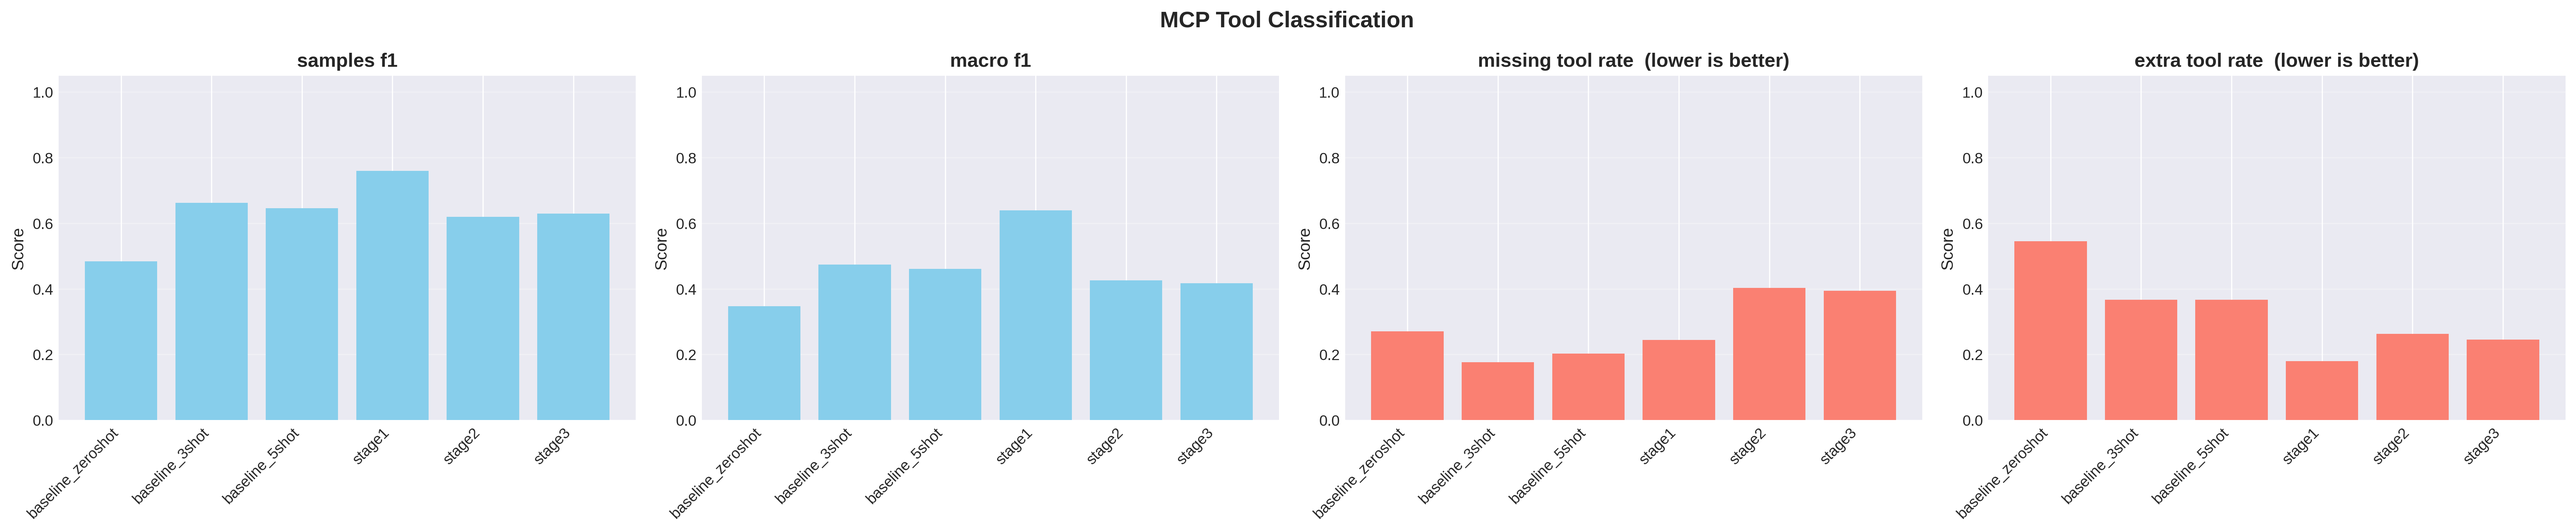
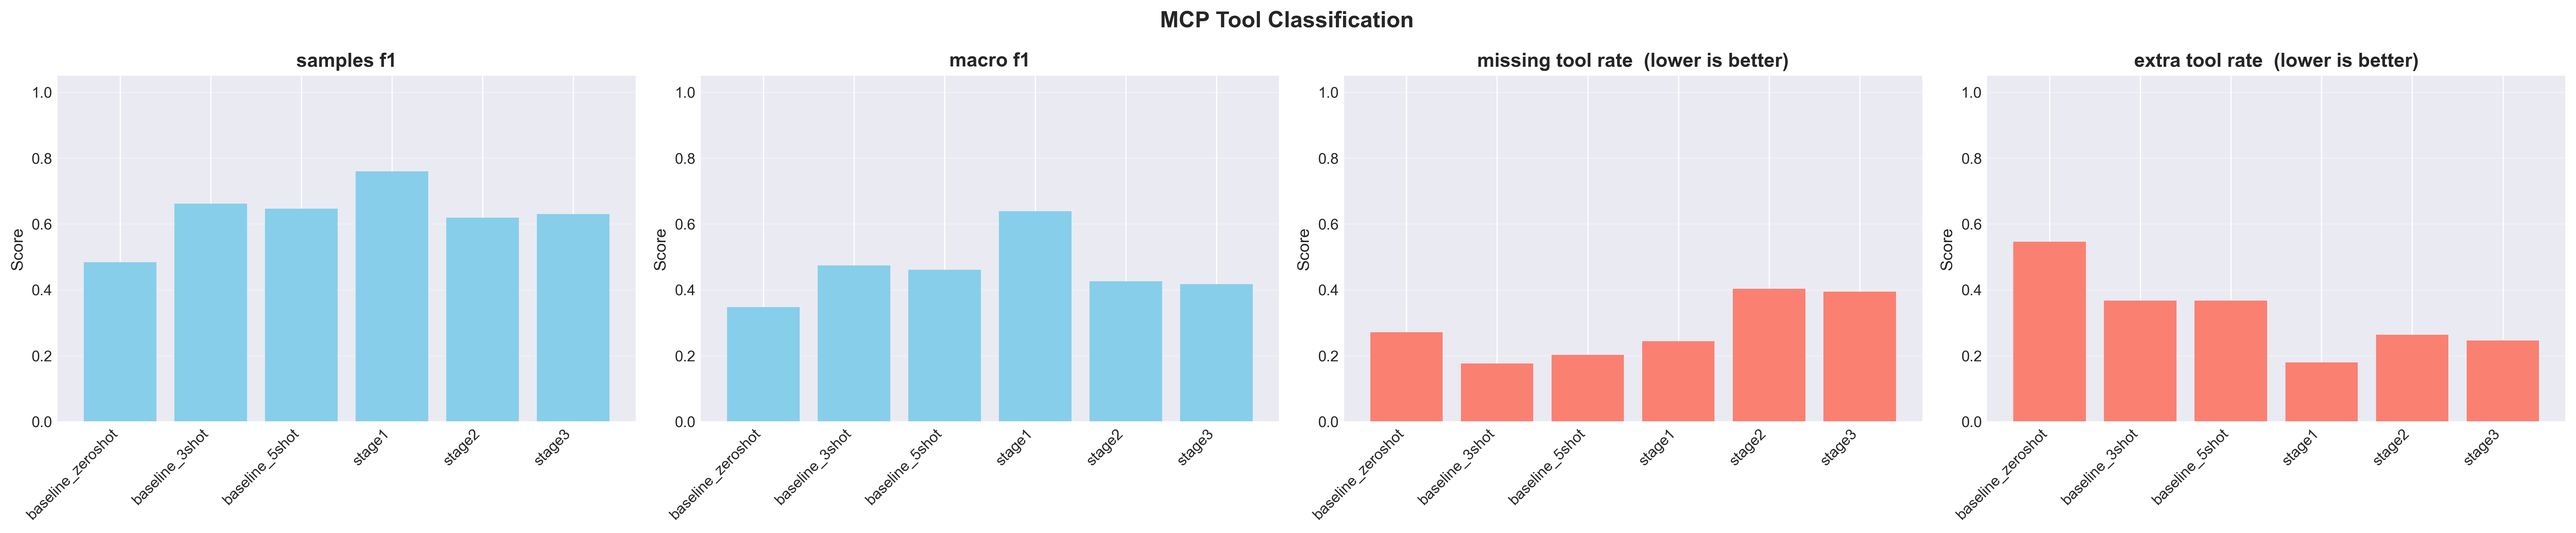
updated Results

diff --git a/stepmodel-final-v2/eval/comparison_report.py b/stepmodel-final-v2/eval/comparison_report.py
@@ -51,9 +51,12 @@ from config import ROOT, STEP_LABELS, MCP_LABELS
 # ---------------------------------------------------------------------------
 REPORTED_METRICS = [
     "step_accuracy",
+    "step_micro_f1",
     "step_macro_f1",
     "mcp_samples_f1",
+    "mcp_micro_f1",
     "mcp_macro_f1",
+    "mcp_subset_accuracy",
     "mcp_missing_tool_rate",
     "mcp_extra_tool_rate",
     "explanation_judge_accuracy",
@@ -239,6 +242,13 @@ def evaluate_model(csv_data, model_name):
     step_metrics = {}
     if step_preds and step_gold:
         step_metrics['accuracy'] = accuracy_score(step_gold, step_preds)
+        # Single-label multiclass: micro-F1 == accuracy exactly (each row
+        # contributes one TP-or-FP-and-FN, so precision == recall ==
+        # accuracy). Reported as its own column anyway because the paper
+        # states it as a separate figure (step_micro_f1 = 0.80) -- keeping
+        # the name lets the comparison line up with their table directly.
+        step_metrics['micro_f1'] = f1_score(step_gold, step_preds, average='micro',
+                                            labels=labels_all, zero_division=0)
         step_metrics['macro_f1'] = f1_score(step_gold, step_preds, average='macro',
                                             labels=labels_all, zero_division=0)
         step_metrics['weighted_f1'] = f1_score(step_gold, step_preds, average='weighted',
